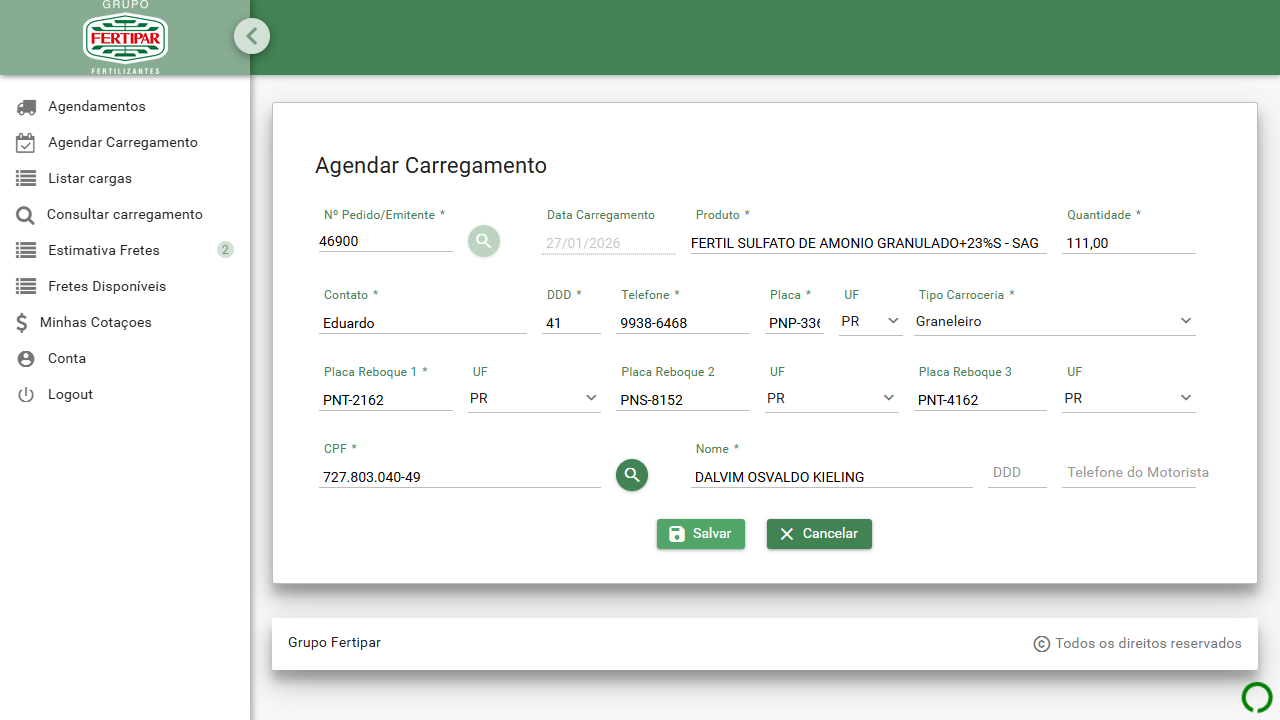
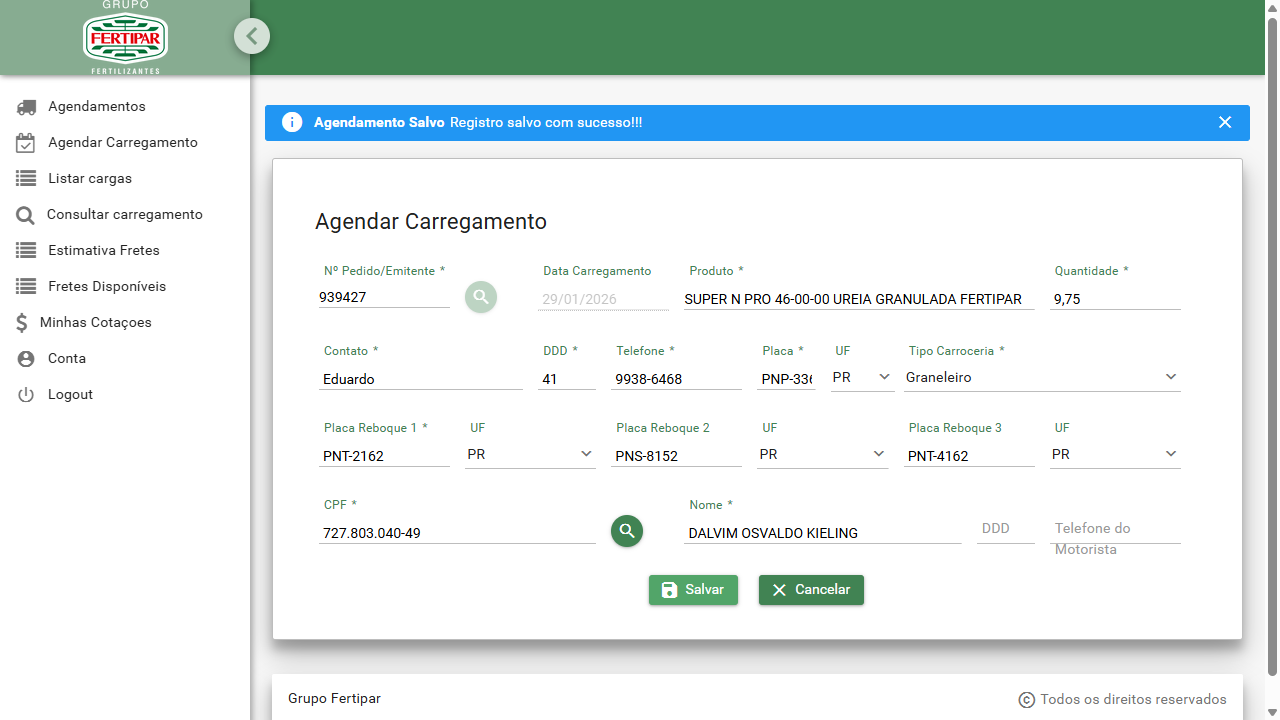
pref290115h

diff --git a/static/js/agenda.js b/static/js/agenda.js
@@ -227,6 +227,18 @@ document.addEventListener('DOMContentLoaded', function() {
                 statusBadgeClass = 'badge-primary';
             }
 
+            let statusDisplay = `<span class="badge ${statusBadgeClass}">${(agenda.status || '').toUpperCase()}</span>`;
+            if (status.includes('processando')) {
+                statusDisplay = `<span class="badge ${statusBadgeClass}">${(agenda.status || '').toUpperCase()} <span class="spinner-border spinner-border-sm" role="status" aria-hidden="true"></span></span>`;
+            }
+
+            // Adiciona o ícone de tooltip se houver log_retorno
+            if (agenda.log_retorno) {
+                // Escapa o conteúdo de log_retorno para evitar problemas de HTML
+                const sanitizedLog = new Option(agenda.log_retorno).innerHTML;
+                statusDisplay += ` <i class="fas fa-question-circle" title="${sanitizedLog}" data-toggle="tooltip"></i>`;
+            }
+
             // Formata as informações do caminhão
             let caminhaoDisplay = agenda.caminhao.placa || 'N/A';
             if (agenda.caminhao.tipo_carroceria) {
@@ -245,7 +257,7 @@ document.addEventListener('DOMContentLoaded', function() {
                 <td>${agenda.pedido}</td>
                 <td>${agenda.destino}</td>
                 <td>${agenda.carga_solicitada !== null ? agenda.carga_solicitada : 'N/A'}</td>
-                <td><span class="badge ${statusBadgeClass}">${(agenda.status || '').toUpperCase()}</span></td>
+                <td>${statusDisplay}</td>
                 <td>
                     <button class="btn btn-sm btn-info btn-executar-agenda" title="Executar" data-id="${agenda.id}" ${status !== 'espera' ? 'disabled' : ''}><i class="fas fa-play"></i></button>
                     <button class="btn btn-sm btn-danger btn-cancelar-agenda" title="Cancelar" data-id="${agenda.id}" ${status !== 'espera' ? 'disabled' : ''}><i class="fas fa-times"></i></button>

diff --git a/backend/rpa_service.py b/backend/rpa_service.py
@@ -4,116 +4,70 @@ from playwright.async_api import async_playwright, Page, expect, TimeoutError
 import re
 import time # Importar módulo time para o timeout do loop
 import traceback
+from datetime import datetime # Importar datetime para a verificação de horário
 
-async def monitor_agendamento_status(config: dict, protocolo: str, pedido: str) -> dict:
+async def monitor_agendamento_status(page: Page, config: dict, protocolo: str, pedido: str) -> dict:
     """
-    Monitors the status of a specific order on the Fertipar website until it is
-    'APROVADO' or another final status (e.g., 'CANCELADO', 'RECUSADO').
-    Includes a timeout for the monitoring loop.
+    Monitors the status of a specific order on the Fertipar website using an existing Page object.
+    Includes a timeout for the monitoring loop and a hard stop at 17:30.
     """
     if not config:
         raise ValueError("Configuration object is required.")
+    if not page:
+        raise ValueError("A Playwright Page object is required.")
 
-    url_login = config.get("url_acesso")
-    filial = config.get("filial")
-    usuario_site = config.get("usuario_site")
-    senha_site = config.get("senha_site")
-    storage_state = config.get("storage_state")
-
-    # Define o tempo limite para o loop de monitoramento (2 horas)
     start_time = time.time()
-    # TODO(monitor_agendamento_status): O limite de 2 horas será o tempo_espera_segundos que virá do banco de dados (ConfiguracaoRobo)
-    # Por enquanto, mantido como 2 horas (7200 segundos) para fins de implementação inicial.
-    timeout_seconds = 7200 
+    timeout_seconds = 7200  # 2 horas
 
-    async with async_playwright() as playwright:
-        browser = await playwright.chromium.launch(headless=not config.get('head_evento', False), slow_mo=50)
-        context = await browser.new_context(storage_state=storage_state)
-        page = await context.new_page()
+    try:
+        # A página já deve estar logada e na URL correta, vinda do process_agendamento_main_task
+        print("[MONITOR] Iniciando monitoramento na página existente.")
 
-        new_storage_state = None
+        # --- Monitoring Loop ---
+        while True:
+            # 1. Verificar timeout do loop
+            if time.time() - start_time > timeout_seconds:
+                message = f"Timeout de {timeout_seconds/3600} horas atingido. O status para Protocolo {protocolo} não mudou de 'PENDENTE'."
+                print(f"[MONITOR] {message}")
+                return {"success": False, "status": "Falha", "message": message}
 
-        try:
-            # --- Login Logic (copied and adapted from rpa_task_processor) ---
-            cotacoes_url = "https://sisferweb.fertipar.com.br/logistica/paginas/cotacoesTransportadora/index.xhtml"
-            await page.goto(cotacoes_url, timeout=60000)
+            # 2. Verificar horário limite de 17:30
+            now = datetime.now()
+            if now.hour > 17 or (now.hour == 17 and now.minute >= 30):
+                message = 'Site indisponivel! horario fechado o acesso'
+                print(f"[MONITOR] {message}")
+                return {"success": False, "status": "indisponivel", "message": message}
 
-            login_needed = False
-            try:
-                await expect(page.locator("#filial_label")).to_be_visible(timeout=5000)
-                login_needed = True
-            except (TimeoutError, AssertionError):
-                # If login form is not there, check if the main grid is.
-                try:
-                    await expect(page.get_by_role("grid").first).to_be_visible(timeout=5000)
-                except TimeoutError:
-                    login_needed = True # Not on login page, but not on dashboard either. Force login.
+            print(f"[MONITOR] Checando status para Protocolo: {protocolo}, Pedido: {pedido}")
+            
+            # 3. Buscar por pedido/protocolo no grid
+            linha_do_item = page.locator(f'//tr[contains(., "{protocolo}") and contains(., "{pedido}")]')
 
-            if login_needed:
-                print("[MONITOR] Performing new login...")
-                await page.goto(url_login, timeout=60000)
-                await page.locator("#filial_label").click()
-                await page.get_by_role("option", name=filial).click()
-                await page.get_by_role("textbox", name="Usuário").fill(usuario_site)
-                await page.get_by_role("textbox", name="Senha").fill(senha_site)
-                await page.get_by_role("button", name=" Acessar").click()
-                await page.wait_for_load_state('networkidle', timeout=30000)
-                new_storage_state = await context.storage_state()
-                await page.goto(cotacoes_url, timeout=30000)
-                await expect(page.get_by_role("grid").first).to_be_visible(timeout=10000)
+            if await linha_do_item.count() > 0:
+                status_text = (await linha_do_item.locator('td').nth(4).inner_text()).strip().upper()
+                print(f"[MONITOR] Status encontrado: '{status_text}'")
 
-            # --- Monitoring Loop ---
-            # TODO(monitor_agendamento_status): Adicionar um contador de tentativas ou usar um tempo de espera mais dinâmico.
-            while True:
-                # 1. Verificar timeout do loop
-                if time.time() - start_time > timeout_seconds:
-                    message = f"Timeout de {timeout_seconds/3600} horas atingido. O status de agendamento para Protocolo {protocolo}, Pedido {pedido} não mudou de 'PENDENTE'."
-                    print(f"[MONITOR] {message}")
-                    return {"success": False, "status": "Falha", "message": message, "new_storage_state": new_storage_state}
-
-                print(f"[MONITOR] Checking status for Protocolo: {protocolo}, Pedido: {pedido}")
-                
-                # 2. Buscar por pedido/protocolo no grid
-                # Onde é feita a busca por pedido/protocolo
-                linha_do_item = page.locator(f'//tr[contains(., "{protocolo}") and contains(., "{pedido}")]') # Adicionado " and contains(., "{pedido}")" para busca mais precisa.
-
-                if await linha_do_item.count() > 0:
-                    # Encontra o texto da coluna de status (assumindo 5ª coluna, índice 4)
-                    status_text = (await linha_do_item.locator('td').nth(4).inner_text()).strip().upper()
-                    print(f"[MONITOR] Found status: '{status_text}'")
-
-                    # 3. Lógica de controle de status
-                    if "APROVADO" in status_text:
-                        # Onde o banco seria atualizado para APROVADO (chamador deve fazer)
-                        return {"success": True, "status": "APROVADO", "message": "Agendamento aprovado.", "new_storage_state": new_storage_state}
-                    elif "PENDENTE" in status_text:
-                        print("[MONITOR] Status 'PENDENTE'. Recarregando a página e aguardando...")
-                        # Onde ocorre o reload
-                        await asyncio.sleep(config.get('tempo_espera_segundos', 30)) # Espera configurável antes de recarregar
-                        await page.reload(wait_until="networkidle")
-                        continue # Continua o loop para verificar novamente
-                    else:
-                        # Se encontrar situação diferente de "PENDENTE" e "APROVADO"
-                        # Exemplo: "CANCELADO", "RECUSADO", "INDEFERIDO" ou qualquer outro texto.
-                        message = f"Agendamento com status inesperado: '{status_text}'. Não será processado."
-                        print(f"[MONITOR] {message}")
-                        # Onde o banco seria atualizado para Falha (chamador deve fazer)
-                        return {"success": False, "status": "Falha", "message": message, "new_storage_state": new_storage_state}
-                else:
-                    print(f"[MONITOR] Row for Protocolo {protocolo}, Pedido {pedido} not found yet. Refreshing...")
-                    # Onde ocorre o reload (quando o item não é encontrado)
-                    await asyncio.sleep(config.get('tempo_espera_segundos', 30)) # Espera configurável antes de recarregar
+                if "APROVADO" in status_text:
+                    return {"success": True, "status": "APROVADO", "message": "Agendamento aprovado."}
+                elif "PENDENTE" in status_text:
+                    print("[MONITOR] Status 'PENDENTE'. Aguardando e recarregando a página...")
+                    await asyncio.sleep(config.get('tempo_espera_segundos', 30))
                     await page.reload(wait_until="networkidle")
-                    # TODO(monitor_agendamento_status): Considerar adicionar um limite de tentativas para 'item not found'.
-                    
-        except Exception as e:
-            tb_str = traceback.format_exc()
-            print(f"[MONITOR] Erro inesperado durante o monitoramento: {e}\n{tb_str}")
-            # Onde o banco seria atualizado para erro (chamador deve fazer)
-            return {"success": False, "status": "erro", "message": tb_str, "new_storage_state": new_storage_state}
-        finally:
-            if browser.is_connected():
-                await browser.close()
+                    continue
+                else:
+                    message = f"Agendamento com status final inesperado: '{status_text}'. O processo será interrompido."
+                    print(f"[MONITOR] {message}")
+                    return {"success": False, "status": "Falha", "message": message}
+            else:
+                print(f"[MONITOR] Protocolo {protocolo} não encontrado. Aguardando e recarregando...")
+                await asyncio.sleep(config.get('tempo_espera_segundos', 30))
+                await page.reload(wait_until="networkidle")
+                
+    except Exception as e:
+        tb_str = traceback.format_exc()
+        print(f"[MONITOR] Erro inesperado: {e}\n{tb_str}")
+        return {"success": False, "status": "erro", "message": tb_str}
+
 
 async def scrape_fertipar_data(config=None):
     """
@@ -233,7 +187,9 @@ async def scrape_fertipar_data(config=None):
         # Filtra apenas por 'PENDENTE' para o propósito de inicialização/exibição
         # A lógica de monitoramento e aprovação é feita em monitor_agendamento_status
         print(f"Raspagem concluída. Total de {len(scraped_data)} linhas. Filtrando por 'Situação' == 'PENDENTE'...")
-        filtered_data = [row for row in scraped_data if row.get('Situação') and row.get('Situação').strip().upper() == 'PENDENTE']
+        #filtered_data = [row for row in scraped_data if row.get('Situação') and row.get('Situação').strip().upper() == 'PENDENTE']
+        filtered_data = [row for row in scraped_data  if row.get('Situação') and row.get('Situação').strip().upper() in ('PENDENTE', 'APROVADO')
+]
         print(f"Encontrado {len(filtered_data)} linhas após filtro.")
         return filtered_data
 

diff --git a/backend/rpa_task_processor.py b/backend/rpa_task_processor.py
@@ -107,7 +107,7 @@ async def process_agendamento_main_task(rpa_params: dict, run_headless: bool = T
                 await page.wait_for_load_state('networkidle', timeout=30000)
                 print("Login realizado com sucesso.")
 
-                await page.goto(cotacoes_url, timeout=30000)
+                await page.goto(cotacoes_url, timeout=10000)
                 await expect(page.get_by_role("grid").first).to_be_visible(timeout=10000)
                 print("[SUCESSO] Navegação para 'Minhas Cotações' após novo login.")
 
@@ -116,29 +116,25 @@ async def process_agendamento_main_task(rpa_params: dict, run_headless: bool = T
                 print("[SUCESSO] Sessão ativa e na página correta. Prosseguindo sem login.")
             
             # --- CHAMA A FUNÇÃO DE MONITORAMENTO DE STATUS ---
-            # Onde `monitor_agendamento_status` é chamado.
+            # Onde `monitor_agendamento_status` é chamado, agora passando o objeto 'page' existente.
             print("\n--- Chamando monitor_agendamento_status para verificar o protocolo/pedido ---")
-            monitor_result = await monitor_agendamento_status(config={
-                "url_acesso": url_login,
-                "filial": filial,
-                "usuario_site": usuario_site,
-                "senha_site": senha_site,
-                "head_evento": mostrar_tela,
-                "tempo_espera_segundos": config.get("tempo_espera_segundos", 30)
-            }, protocolo=protocolo_procurado, pedido=pedido_procurado)
+            monitor_result = await monitor_agendamento_status(
+                page=page, 
+                config={"tempo_espera_segundos": config.get("tempo_espera_segundos", 30)},
+                protocolo=protocolo_procurado, 
+                pedido=pedido_procurado
+            )
             
-            # Propaga o new_storage_state de volta se o monitor_agendamento_status tiver feito login
-            if monitor_result.get('new_storage_state'):
-                new_storage_state = monitor_result['new_storage_state']
+            # A sessão (new_storage_state) é gerenciada apenas nesta função, não mais no monitor.
 
-            if monitor_result['status'] != "APROVADO":
+            if monitor_result.get('status') != "APROVADO":
                 # Se não está APROVADO, retorna o resultado do monitoramento diretamente
                 return {
-                    "success": monitor_result['success'],
-                    "status": monitor_result['status'],
-                    "message": monitor_result['message'],
-                    "user_facing_message": monitor_result['message'], # Pode ser refinado
-                    "new_storage_state": new_storage_state
+                    "success": monitor_result.get('success', False),
+                    "status": monitor_result.get('status', 'erro'),
+                    "message": monitor_result.get('message', 'Erro desconhecido no monitoramento.'),
+                    "user_facing_message": monitor_result.get('message', 'O monitoramento falhou.'),
+                    "new_storage_state": new_storage_state # Propaga o estado de sessão se houver
                 }
 
             print("[SUCESSO] Status 'APROVADO' detectado pelo monitoramento. Prosseguindo com o agendamento...")
@@ -154,6 +150,15 @@ async def process_agendamento_main_task(rpa_params: dict, run_headless: bool = T
                 
                 print("\n--- Iniciando preenchimento de dados do veículo e contato ---")
                 
+                cargaSolicitada_val=config.get("carga_solicitada")
+                if cargaSolicitada_val:
+                    try:
+                        await page.get_by_role("textbox", name="Quantidade*").fill(cargaSolicitada_val)
+                        print(f"[SUCESSO] Campo 'Carga Solicitada*' preenchido com: {cargaSolicitada_val}")
+                    except TimeoutError:
+                        print(f"[FALHA] Campo 'Carga Solicitada*' não encontrado ou não editável. Valor: {cargaSolicitada_val}")
+
+
                 contato_val = config.get("contato")
                 if contato_val:
                     try:
@@ -184,8 +189,17 @@ async def process_agendamento_main_task(rpa_params: dict, run_headless: bool = T
                 placa_principal = caminhao.get("placa")
                 if placa_principal:
                     try:
-                        await page.get_by_role("textbox", name="Placa*").fill(placa_principal)
-                        print(f"[SUCESSO] Campo 'Placa*' preenchido com: {placa_principal}")
+                        placa_input = page.get_by_role("textbox", name="Placa*")
+                        # await page.get_by_role("textbox", name="Placa*").click()
+                        # await page.get_by_role("textbox", name="Placa*").fill(placa_principal)
+                         
+                        await placa_input.click()
+                        await placa_input.fill(placa_principal)     
+                        
+                        valor = await placa_input.input_value()
+                        print(f"[DEBUG] Valor no campo Placa*: {valor!r}")
+     
+                        print(f"[SUCESSO] Campo ** 'Placa*' preenchido com: {placa_principal}")
                     except TimeoutError:
                         print(f"[FALHA] Campo 'Placa*' não encontrado ou não editável. Valor: {placa_principal}")
                 else:

diff --git a/app.py b/app.py
@@ -482,7 +482,7 @@ def cadastros():
     
     # Data for dropdowns
     ufs = ['AC', 'AL', 'AP', 'AM', 'BA', 'CE', 'DF', 'ES', 'GO', 'MA', 'MT', 'MS', 'MG', 'PA', 'PB', 'PR', 'PE', 'PI', 'RJ', 'RN', 'RS', 'RO', 'RR', 'SC', 'SP', 'SE', 'TO']
-    tipos_carroceria = ['Cavalo Mecânico', 'Cavalo Mecânico Trucado', 'Toco', 'Truck', 'Bitruck', 'Carreta 2 eixos', 'Carreta 3 eixos', 'Carreta Cavalo Trucado', 'Bitrem', 'Rodotrem']
+    tipos_carroceria = ['Cavalo Mecânico','Graneleiro','Cavalo Mecânico Trucado', 'Toco', 'Truck', 'Bitruck', 'Carreta 2 eixos', 'Carreta 3 eixos', 'Carreta Cavalo Trucado', 'Bitrem', 'Rodotrem']
     #tipos_carroceria = carregar_tipos_carroceria("mds/tpcarroceria.md")
     
     # Determine active tab
@@ -985,6 +985,14 @@ def execute_agenda_task(agenda_id):
     if not motorista or not caminhao:
         return jsonify(success=False, message="Motorista ou Caminhão da agenda não encontrados."), 404
 
+    # --- Verificação de Horário Limite (17:30) ---
+    now = datetime.now()
+    if now.hour > 17 or (now.hour == 17 and now.minute >= 30):
+        agenda.status = 'indisponivel'
+        agenda.log_retorno = 'Site indisponivel! horario fechado o acesso'
+        db.session.commit()
+        return jsonify(success=False, message=agenda.log_retorno), 403 # 403 Forbidden
+
     # --- LÓGICA DE SESSÃO: Carregar estado do banco de dados ---
     print("--- Carregando estado de sessão do RPA do banco de dados... ---")
     sessao_rpa = db.session.query(RpaSessao).first()
@@ -1126,6 +1134,14 @@ def execute_agenda_task_dev_mode(agenda_id):
     caminhao = db.session.get(Caminhao, agenda.caminhao_id)
     if not motorista or not caminhao:
         return jsonify(success=False, message="Motorista ou Caminhão da agenda não encontrados."), 404
+
+    # --- Verificação de Horário Limite (17:30) ---
+    now = datetime.now()
+    if now.hour > 17 or (now.hour == 17 and now.minute >= 30):
+        agenda.status = 'indisponivel'
+        agenda.log_retorno = 'Site indisponivel! horario fechado o acesso'
+        db.session.commit()
+        return jsonify(success=False, message=agenda.log_retorno), 403 # 403 Forbidden
 
     # --- LÓGICA DE SESSÃO: Carregar estado do banco de dados ---
     print("--- Carregando estado de sessão do RPA do banco de dados (Dev Mode)... ---")
